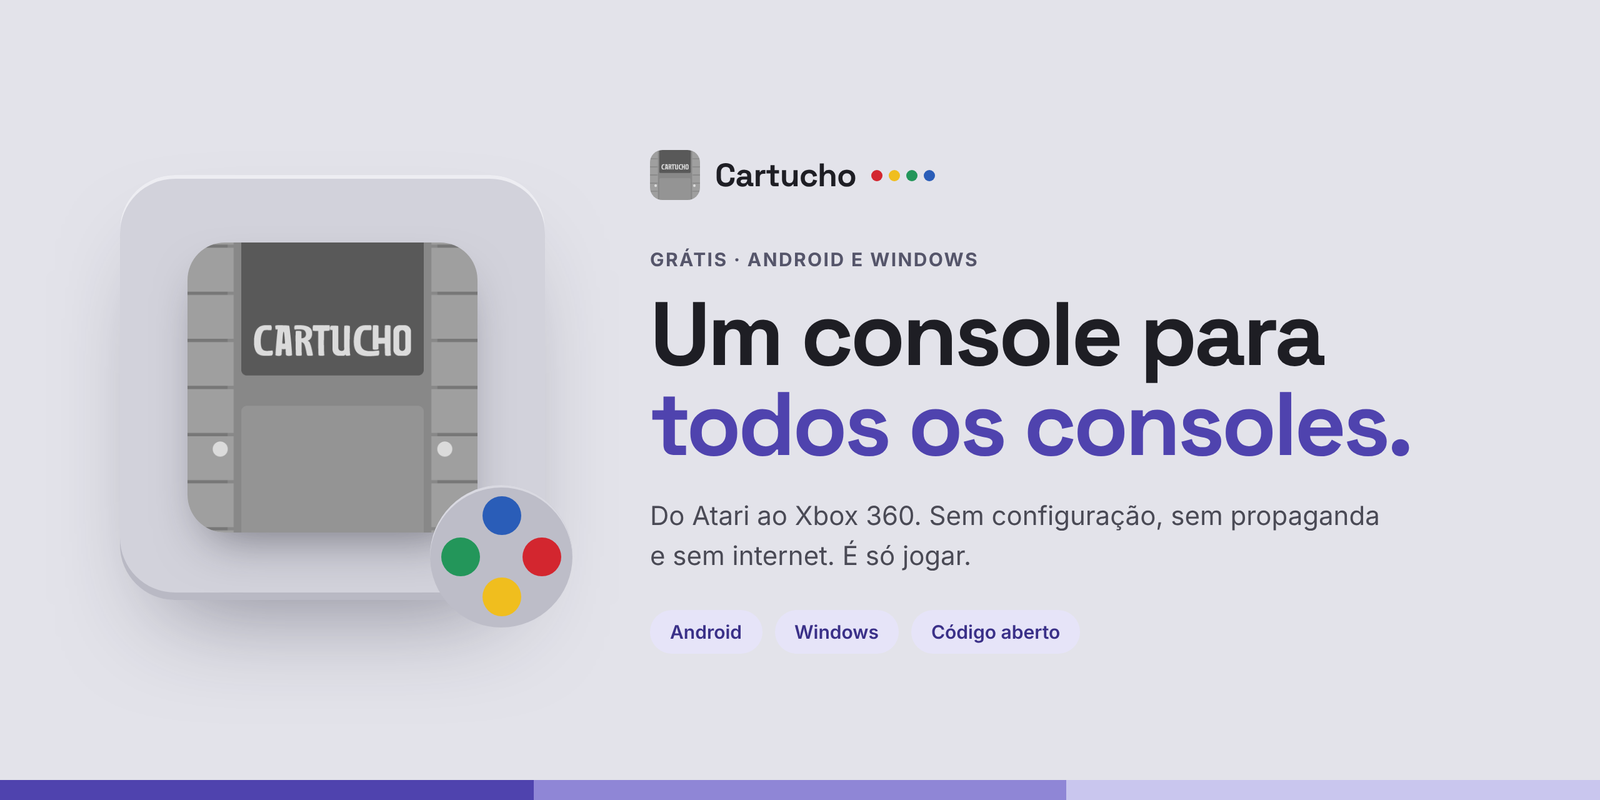
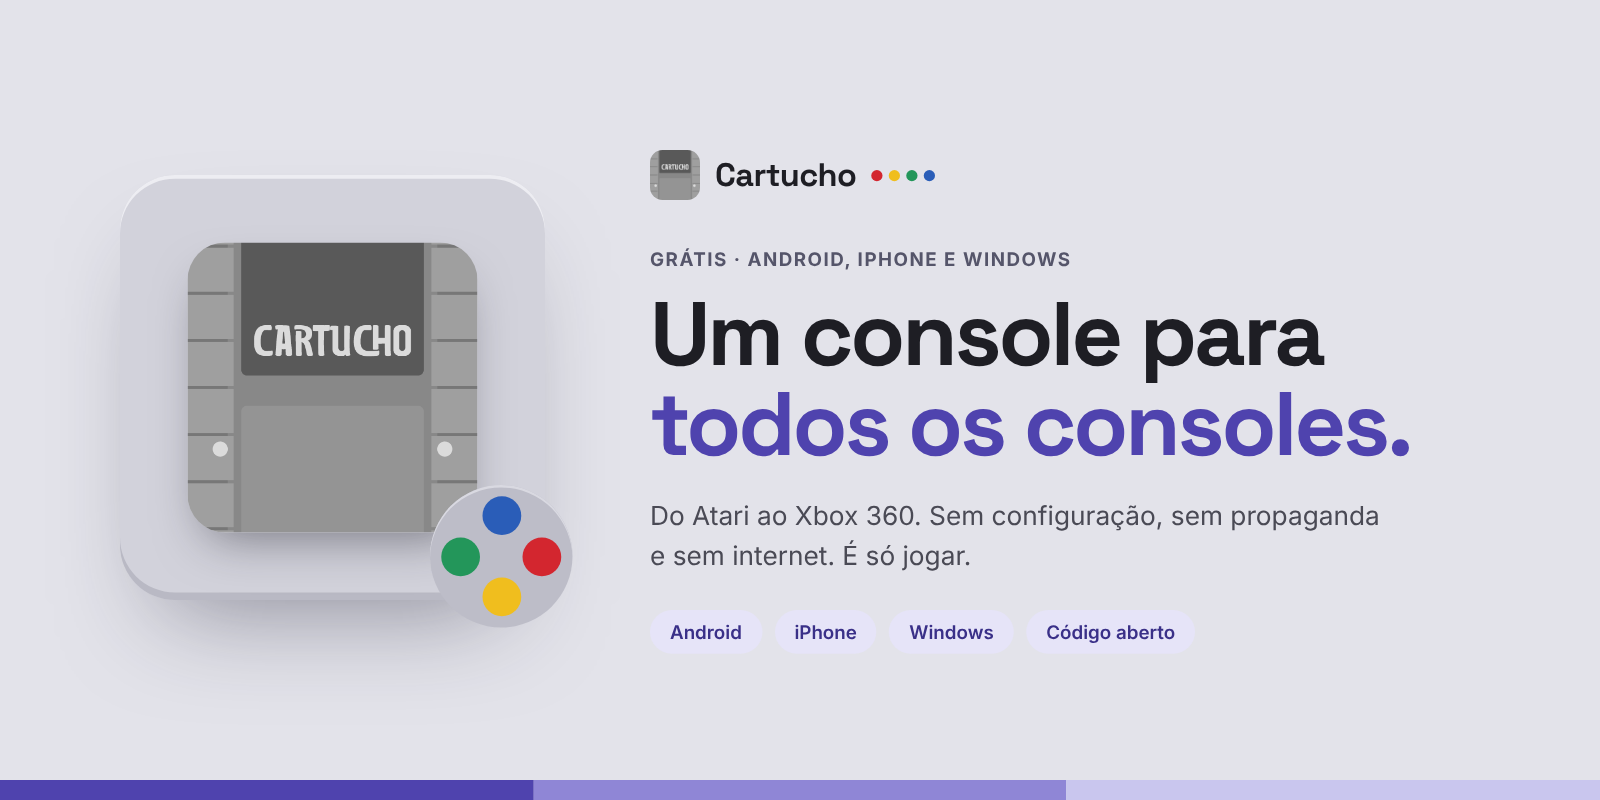
Site e README: iPhone, controles Bluetooth e card com capa [skip ci]
Claude-Session: https://claude.ai/code/session_012du9hYoGdjek75wGg9n29t

Changed region(s): [[0.5, 0.7812, 0.75, 0.8125], [0.5312, 0.3125, 0.6875, 0.3438], [0.4375, 0.7812, 0.4688, 0.8125]]

diff --git a/site/index.html b/site/index.html
@@ -6,7 +6,7 @@
 <meta name="copyright" content="© 2026 André Felipe">
 <meta name="viewport" content="width=device-width, initial-scale=1">
 <title>Cartucho — Emulador gratuito, do Atari ao Xbox 360</title>
-<meta name="description" content="Cartucho é um emulador gratuito para Android e Windows. Reconhece seus jogos, busca as capas sozinho e funciona com qualquer controle.">
+<meta name="description" content="Cartucho é um emulador gratuito para Android, iPhone e Windows. Reconhece seus jogos, busca as capas sozinho e funciona com qualquer controle.">
 <meta name="theme-color" content="#E3E3EA">
 <link rel="icon" type="image/png" href="favicon.png">
 <link rel="apple-touch-icon" href="favicon.png">
@@ -37,7 +37,7 @@
     <div class="hero-text">
       <div class="kicker">
         <span class="dots" aria-hidden="true"><i style="background:var(--red)"></i><i style="background:var(--yellow)"></i><i style="background:var(--green)"></i><i style="background:var(--blue)"></i></span>
-        <span>Grátis · Android e Windows</span>
+        <span>Grátis · Android, iPhone e Windows</span>
       </div>
       <h1>Do Atari ao Xbox 360. Num só cartucho.</h1>
       <p class="lead">Um emulador simples que reconhece seus jogos, busca as capas sozinho e funciona com qualquer controle. É só escolher o jogo e apertar start.</p>
@@ -49,6 +49,10 @@
         <a class="btn btn-soft" data-asset="win-setup" href="https://github.com/andrefeeelipe/Cartucho/releases/download/v1.0.80/Cartucho-1.0.80-windows-instalador.exe">
           <svg aria-hidden="true" width="18" height="18" viewBox="0 0 24 24" fill="none" stroke="currentColor" stroke-width="2" stroke-linecap="round" stroke-linejoin="round"><rect x="3" y="4" width="18" height="12" rx="2"/><path d="M8 20h8"/><path d="M12 16v4"/></svg>
           Baixar para Windows
+        </a>
+        <a class="btn btn-soft" data-asset="ios-ipa" href="https://github.com/andrefeeelipe/Cartucho/releases/latest">
+          <svg aria-hidden="true" width="18" height="18" viewBox="0 0 24 24" fill="none" stroke="currentColor" stroke-width="2" stroke-linecap="round" stroke-linejoin="round"><rect x="6" y="2" width="12" height="20" rx="3"/><path d="M10 5h4"/></svg>
+          Baixar para iPhone
         </a>
       </div>
     </div>
@@ -67,29 +71,29 @@
     <div class="wrap section">
       <div class="section-head">
         <h2>Sete gerações de videogame.</h2>
-        <p>No celular, do Atari ao PlayStation 2. No PC, vai até o Wii U e o Xbox 360, com o Cartucho avisando antes se o seu computador roda o jogo liso.</p>
+        <p>No Android, do Atari ao PlayStation 2. No iPhone, até o PlayStation, o PSP e o Nintendo DS. No PC, vai até o Wii U e o Xbox 360, com o Cartucho avisando antes se o seu computador roda o jogo liso.</p>
       </div>
 
       <div class="grid">
         <article class="gen">
           <div class="gen-top"><span>2ª geração</span><i aria-hidden="true" style="background:var(--red)"></i></div>
           <p>Atari 2600, Atari 7800</p>
-          <div class="tags"><span>Android</span><span>Windows</span></div>
+          <div class="tags"><span>Android</span><span>iPhone</span><span>Windows</span></div>
         </article>
         <article class="gen">
           <div class="gen-top"><span>3ª geração</span><i aria-hidden="true" style="background:var(--yellow)"></i></div>
           <p>NES, Master System</p>
-          <div class="tags"><span>Android</span><span>Windows</span></div>
+          <div class="tags"><span>Android</span><span>iPhone</span><span>Windows</span></div>
         </article>
         <article class="gen">
           <div class="gen-top"><span>4ª geração</span><i aria-hidden="true" style="background:var(--green)"></i></div>
           <p>Super Nintendo, Mega Drive</p>
-          <div class="tags"><span>Android</span><span>Windows</span></div>
+          <div class="tags"><span>Android</span><span>iPhone</span><span>Windows</span></div>
         </article>
         <article class="gen">
           <div class="gen-top"><span>5ª geração</span><i aria-hidden="true" style="background:var(--blue)"></i></div>
           <p>PlayStation, Nintendo 64, Saturn</p>
-          <div class="tags"><span>Android</span><span>Windows</span></div>
+          <div class="tags"><span>Android</span><span>iPhone</span><span>Windows</span></div>
         </article>
         <article class="gen">
           <div class="gen-top"><span>6ª geração</span><i aria-hidden="true" style="background:var(--red)"></i></div>
@@ -137,7 +141,7 @@
       <div class="feature">
         <span class="ico" style="background:var(--purple)"><svg aria-hidden="true" width="22" height="22" viewBox="0 0 24 24" fill="none" stroke="currentColor" stroke-width="2" stroke-linecap="round" stroke-linejoin="round"><rect x="2" y="7" width="20" height="10" rx="5"/><path d="M7 10v4"/><path d="M5 12h4"/><circle cx="16" cy="11" r="0.8" fill="currentColor"/><circle cx="18" cy="13" r="0.8" fill="currentColor"/></svg></span>
         <h3>Qualquer controle</h3>
-        <p>Conectou, funcionou. Bluetooth, USB ou teclado no PC.</p>
+        <p>Conectou, funcionou: PlayStation, Xbox, 8BitDo e genéricos, por Bluetooth ou USB. Teclado no PC e controle na tela do celular.</p>
       </div>
       <div class="feature">
         <span class="ico" style="background:var(--red)"><svg aria-hidden="true" width="22" height="22" viewBox="0 0 24 24" fill="none" stroke="currentColor" stroke-width="2" stroke-linecap="round" stroke-linejoin="round"><rect x="4" y="3" width="16" height="18" rx="2"/><path d="m4 15 4-4 4 4 3-3 5 5"/><circle cx="15" cy="8" r="1.5"/></svg></span>
@@ -210,6 +214,18 @@
             Baixar para Windows
           </a>
         </div>
+        <div class="dl-card dl-ios">
+          <div class="dl-title">
+            <svg aria-hidden="true" width="28" height="28" viewBox="0 0 24 24" fill="none" stroke="#C9C6EE" stroke-width="2" stroke-linecap="round" stroke-linejoin="round"><rect x="6" y="2" width="12" height="20" rx="3"/><path d="M10 5h4"/></svg>
+            <h3>iPhone e iPad</h3>
+          </div>
+          <p>Do Atari ao PlayStation, PSP e Nintendo DS, com controle na tela. Instale grátis pelo AltStore ou SideStore.</p>
+          <p class="meta" data-meta="ios" aria-live="polite">iOS 14 ou mais novo · <a href="#instalar-iphone">como instalar</a></p>
+          <a class="btn btn-soft" data-asset="ios-ipa" href="https://github.com/andrefeeelipe/Cartucho/releases/latest">
+            <svg aria-hidden="true" width="18" height="18" viewBox="0 0 24 24" fill="none" stroke="currentColor" stroke-width="2" stroke-linecap="round" stroke-linejoin="round"><path d="M12 3v12"/><path d="m7 10 5 5 5-5"/><path d="M5 21h14"/></svg>
+            Baixar para iPhone (.ipa)
+          </a>
+        </div>
       </div>
 
       <details class="more">
@@ -247,10 +263,16 @@
               <span class="f-size" data-size="win-zip">—</span>
               <a class="f-get" data-asset="win-zip" href="https://github.com/andrefeeelipe/Cartucho/releases/download/v1.0.80/Cartucho-1.0.80-windows-x64.zip" aria-label="Baixar Windows sem instalar">Baixar</a>
             </li>
+            <li data-row="ios-ipa">
+              <div class="f-name"><strong>iPhone e iPad (.ipa)</strong><span>Instale pelo AltStore ou SideStore. iOS 14 ou mais novo.</span></div>
+              <span class="f-size" data-size="ios-ipa">—</span>
+              <a class="f-get" data-asset="ios-ipa" href="https://github.com/andrefeeelipe/Cartucho/releases/latest" aria-label="Baixar para iPhone">Baixar</a>
+            </li>
           </ul>
           <p class="integrity">Conferir integridade (SHA-256):
             <a class="inline" data-asset="sha-android" href="https://github.com/andrefeeelipe/Cartucho/releases/download/v1.0.80/SHA256SUMS.txt">Android</a> ·
-            <a class="inline" data-asset="sha-windows" href="https://github.com/andrefeeelipe/Cartucho/releases/download/v1.0.80/SHA256SUMS-windows.txt">Windows</a>
+            <a class="inline" data-asset="sha-windows" href="https://github.com/andrefeeelipe/Cartucho/releases/download/v1.0.80/SHA256SUMS-windows.txt">Windows</a> ·
+            <a class="inline" data-asset="sha-ios" href="https://github.com/andrefeeelipe/Cartucho/releases/latest">iPhone</a>
           </p>
         </div>
       </details>
@@ -293,6 +315,26 @@
             <li>Toque em Instalar e depois em Abrir.</li>
           </ol>
           <p>Quase todo celular atual usa o arm64-v8a, que é o do botão principal. Se não tiver certeza, baixe o universal: é maior, mas funciona em qualquer aparelho.</p>
+        </div>
+      </details>
+      <details id="instalar-iphone">
+        <summary>Como instalar no iPhone?</summary>
+        <div class="answer">
+          <p>A Apple só deixa instalar apps de fora da App Store por um instalador como o AltStore ou o SideStore. Os dois são gratuitos e usam o seu próprio ID Apple.</p>
+          <ol>
+            <li>Instale o AltStore (altstore.io) ou o SideStore (sidestore.io) seguindo o passo a passo do site deles. O AltStore precisa de um computador na primeira vez.</li>
+            <li>No iPhone, toque em Baixar para iPhone (.ipa), neste site.</li>
+            <li>Abra o AltStore ou SideStore, vá em My Apps, toque em + e escolha o arquivo do Cartucho.</li>
+            <li>Com ID Apple gratuito, o app precisa ser renovado a cada 7 dias: abra o AltStore ou SideStore e toque em Refresh. Seus jogos e saves continuam lá.</li>
+          </ol>
+          <p>Para colocar seus jogos: app Arquivos › No meu iPhone › Cartucho.</p>
+        </div>
+      </details>
+      <details>
+        <summary>Funciona com o meu controle?</summary>
+        <div class="answer">
+          <p>Controles de PlayStation 4 e 5, Xbox One S e mais novos, Switch Pro e 8BitDo funcionam por Bluetooth no Android, no iPhone e no Windows. Controles genéricos funcionam no Android e no Windows; no iPhone, só os que têm modo iOS ou selo MFi (a Apple não aceita os outros).</p>
+          <p>O controle de Xbox 360 não tem Bluetooth: com fio, funciona no Windows e no Android (com adaptador USB-C); o sem fio precisa do receptor da Microsoft no PC. Em qualquer controle, Select + Start juntos abrem o menu do jogo.</p>
         </div>
       </details>
       <details>

diff --git a/site/site.js b/site/site.js
@@ -19,7 +19,9 @@
     { id: 'win-setup', end: 'windows-instalador.exe' },
     { id: 'win-zip', end: 'windows-x64.zip' },
     { id: 'sha-android', end: 'SHA256SUMS.txt' },
-    { id: 'sha-windows', end: 'SHA256SUMS-windows.txt' }
+    { id: 'sha-windows', end: 'SHA256SUMS-windows.txt' },
+    { id: 'ios-ipa', end: '-iphone.ipa' },
+    { id: 'sha-ios', end: 'SHA256SUMS-iphone.txt' }
   ];
 
   function $all(sel) { return Array.prototype.slice.call(document.querySelectorAll(sel)); }
@@ -28,11 +30,17 @@
   var ua = navigator.userAgent || '';
   var isAndroid = /Android/i.test(ua);
   var isWindows = !isAndroid && /Windows/i.test(ua);
+  // iPad novo se apresenta como Mac: tela de toque denuncia.
+  var isIOS = /iPhone|iPad|iPod/i.test(ua) || (/Macintosh/i.test(ua) && navigator.maxTouchPoints > 1);
   var grid = document.getElementById('dl-grid');
   if (grid) {
     if (isAndroid) {
       var a = grid.querySelector('.dl-android');
       if (a) a.classList.add('is-yours');
+    } else if (isIOS) {
+      var i = grid.querySelector('.dl-ios');
+      if (i) i.classList.add('is-yours');
+      grid.classList.add('ios-first');
     } else if (isWindows) {
       var w = grid.querySelector('.dl-win');
       if (w) w.classList.add('is-yours');
@@ -133,6 +141,13 @@
       var fw = files['win-setup'];
       metaWin.textContent = ['Versão ' + version, fw ? formatSize(fw.size) : '', 'Windows 10 ou 11, 64 bits']
         .filter(Boolean).join(' · ');
+    }
+
+    var metaIos = document.querySelector('[data-meta="ios"]');
+    if (metaIos && files['ios-ipa']) {
+      var link = metaIos.querySelector('a');
+      metaIos.textContent = ['Versão ' + version, formatSize(files['ios-ipa'].size), 'iOS 14+'].filter(Boolean).join(' · ') + ' · ';
+      if (link) metaIos.appendChild(link);
     }
 
     var line = document.querySelector('[data-release-line]');

diff --git a/site/site.css b/site/site.css
@@ -183,6 +183,7 @@ h2 {
 .dl-card { background: var(--dark-2); border-radius: 26px; padding: 36px; display: flex; flex-direction: column; gap: 18px; border: 2px solid transparent; }
 .dl-card.is-yours { border-color: var(--lav); }
 .dl-grid.windows-first .dl-win { order: -1; }
+.dl-grid.ios-first .dl-ios { order: -1; }
 .dl-card .dl-title { display: flex; align-items: center; gap: 12px; }
 .dl-card h3 { margin: 0; font-size: 26px; font-weight: 700; }
 .dl-card p { margin: 0; font-size: 15px; line-height: 1.55; color: var(--dark-text); }

diff --git a/README.md b/README.md
@@ -1,12 +1,12 @@
 # Cartucho
 
-<img src="docs/banner.png" alt="Cartucho: um console para todos os consoles. Do Atari ao Xbox 360, grátis para Android e Windows.">
+<img src="docs/banner.png" alt="Cartucho: um console para todos os consoles. Do Atari ao Xbox 360, grátis para Android, iPhone e Windows.">
 
 ### Baixe aqui: **[cartucho-emulador.netlify.app](https://cartucho-emulador.netlify.app)**
 
 **O Cartucho transforma o seu celular ou o seu computador num videogame antigo.**
 
-Sabe aqueles videogames de antigamente, como o Super Nintendo, o Mega Drive e o PlayStation? O Cartucho "finge" ser eles. Assim você joga os seus jogos no celular (Android) ou no computador (Windows), onde estiver.
+Sabe aqueles videogames de antigamente, como o Super Nintendo, o Mega Drive e o PlayStation? O Cartucho "finge" ser eles. Assim você joga os seus jogos no celular (Android ou iPhone) ou no computador (Windows), onde estiver.
 
 - **É de graça.** Para sempre.
 - **Não tem propaganda.**
@@ -36,6 +36,17 @@ Tem mais de um arquivo de Android. Qual é o seu?
 | `armeabi-v7a` | Celulares bem velhinhos (os videogames mais pesados não rodam) |
 | `x86_64` | Chromebooks e "celulares de mentira" no computador |
 | `universal` | Funciona em qualquer um, mas é bem maior |
+
+### No iPhone e no iPad (iOS 14 ou mais novo)
+
+A Apple só deixa instalar apps de fora da App Store por um "instalador" como o **AltStore** ou o **SideStore**. Os dois são grátis e usam o seu próprio ID Apple.
+
+1. Instale o **[AltStore](https://altstore.io)** ou o **[SideStore](https://sidestore.io)** seguindo o passo a passo do site deles (o AltStore precisa de um computador na primeira vez).
+2. No iPhone, abra o **[site do Cartucho](https://cartucho-emulador.netlify.app)** e toque em **Baixar para iPhone (.ipa)**.
+3. Abra o AltStore ou SideStore, vá em **My Apps**, toque em **+** e escolha o arquivo do Cartucho.
+4. Com ID Apple grátis, o app precisa ser renovado a cada 7 dias: abra o AltStore ou SideStore e toque em **Refresh**. Seus jogos e saves continuam lá.
+
+Para colocar os seus jogos: app **Arquivos → No meu iPhone → Cartucho**. No iPhone o Cartucho roda do Atari ao **PlayStation, PSP, Nintendo 64 e Nintendo DS**, com controle na tela. Os mais pesados (PS2, GameCube, 3DS, Dreamcast, Saturn) ficam de fora: o iPhone não deixa os emuladores usarem a técnica que dá velocidade a eles.
 
 ### No computador (Windows 10 ou 11)
 
@@ -138,13 +149,24 @@ Na página do jogo (ou no menu de pausa), toque em **Compartilhar**. O Cartucho 
 |---|---|---|
 | <img src="docs/card-story.png" width="200" alt="Card no formato story"> | <img src="docs/card-feed.png" width="260" alt="Card no formato feed"> | <img src="docs/card-link.png" width="320" alt="Card no formato link"> |
 
-Toque em **Compartilhar** para mandar no WhatsApp ou no Instagram, ou em **Salvar imagem**. No computador, clique com o botão direito numa capa e escolha *Compartilhar card*: a imagem fica salva e já copiada, é só colar.
+O card sempre leva a **capa do jogo**. Toque em **Compartilhar** para mandar no WhatsApp ou no Instagram, ou em **Salvar imagem**. No computador, clique com o botão direito numa capa e escolha *Compartilhar card*: a imagem fica salva e já copiada, é só colar. No iPhone, segure a capa e escolha *Compartilhar card*.
 
 ### Guardar o progresso no Google Drive (se quiser)
 Em *Ajustes → Nuvem*, escolha sua conta do Google. Seus saves vão para uma pasta chamada *Cartucho* no seu Drive. Assim você pode começar no celular e continuar no computador. O app só mexe nessa pasta.
 
 ### Controles
-Use os botões na tela (dá para arrastar e mudar o tamanho) ou um controle de verdade, com fio ou Bluetooth (Xbox, PlayStation ou outros). Dá para trocar a função de cada botão.
+Use os botões na tela (no Android dá para arrastar e mudar o tamanho) ou um controle de verdade, com fio ou Bluetooth. Dá para trocar a função de cada botão no Android. **Select + Start juntos** abrem o menu do jogo em qualquer controle.
+
+| Controle | Android | iPhone | Windows |
+|---|---|---|---|
+| PlayStation 4 e 5 (Bluetooth) | Sim | Sim | Sim |
+| Xbox One S, Series (Bluetooth) | Sim | Sim | Sim |
+| Xbox One de 2013 (sem Bluetooth) | Com cabo USB | Não | Com cabo USB |
+| Xbox 360 (não tem Bluetooth) | Com fio, por adaptador USB-C | Não | Com fio, ou sem fio com o receptor da Microsoft |
+| 8BitDo, GameSir, Switch Pro | Sim | Sim | Sim |
+| Genéricos Bluetooth | Sim | Só com modo iOS ou selo MFi | Sim |
+
+O Windows e o iPhone trazem a lista da comunidade com os botões de milhares de controles. Controle que não está na lista também funciona, com o layout mais comum dos genéricos.
 
 ---
 
@@ -173,6 +195,8 @@ Com a BIOS do seu PS2 (em *Ajustes → BIOS → PlayStation 2*), o Cartucho usa 
 
 **Jogos de computador (Doom, Quake e outros):** coloque a pasta inteira do jogo dentro de um `.zip` e adicione o `.zip` no Cartucho.
 
+**No iPhone** entram os videogames até o PlayStation e o PSP (incluindo Nintendo 64 e Nintendo DS), além dos computadores antigos e dos jogos clássicos de computador.
+
 **No computador, o Cartucho avisa antes de abrir o jogo** se ele vai rodar liso, engasgar, travar ou nem abrir. Depois que você joga, o aviso fica ainda mais certo.
 
 ---
@@ -184,6 +208,9 @@ Para jogar, não. A internet só é usada para baixar capas, baixar jogos da Loj
 
 **Por que não tem Nintendo Switch?**
 Em 2026, a Nintendo mandou tirar do ar vários programas que rodavam jogos de Switch. Se o Cartucho tivesse Switch, ele poderia ser tirado do ar também, e todo mundo perderia o resto. Por isso o Switch fica de fora.
+
+**Por que o iPhone precisa do AltStore ou SideStore?**
+Para entrar na App Store, a Apple cobra uma taxa por ano de quem publica. O Cartucho é 100% grátis, então ele é instalado pelo AltStore ou SideStore, que são grátis e usam o seu próprio ID Apple.
 
 **Os jogos estão lentos no meu celular. E agora?**
 Vá em *Ajustes → Sistemas neste aparelho*. O app conta, com sinceridade, o que roda bem no seu celular. Os videogames mais pesados (PS2, GameCube, 3DS) precisam de celulares fortes.
@@ -197,6 +224,7 @@ Espere alguns segundos com o app aberto: ele reconhece os jogos aos poucos. Se f
 
 - **PlayStation 2** pesa bastante no celular. Nem todo jogo roda bem.
 - **Nintendo 3DS** precisa de um celular forte, e o jogo precisa estar "aberto" (descriptografado), nos formatos `.3ds`, `.cci`, `.cxi` ou `.3dsx`.
+- **iPhone (primeira versão):** sem saves no Google Drive, sem salas online e sem conquistas por enquanto. PSP e Nintendo 64 podem engasgar, porque o iPhone não deixa os emuladores usarem JIT.
 - Arquivos `.rar` do tipo RAR5 ainda não abrem.
 - Jogos feitos de vários arquivos (`.cue`/`.bin`, `.gdi`, `.m3u`) precisam ser adicionados pelo botão **Adicionar pasta**.
 - O reconhecimento de nome ainda não lê `.cue`, `.chd` e `.cso`, e por enquanto só funciona no celular.
@@ -245,7 +273,7 @@ O visual lembra os videogames cinza dos anos 90: plástico claro, listras roxas 
 Toda vez que alguém manda uma mudança para a branch `main`, o **GitHub Actions** (um robô grátis do GitHub) faz tudo sozinho:
 
 1. **Junta as peças:** baixa os emuladores, a lista que reconhece os jogos e o catálogo da Loja.
-2. **Monta o app:** um para Android e outro para Windows.
+2. **Monta o app:** um para Android, um para Windows e um para iPhone (o `.ipa`, num Mac do GitHub).
 3. **Testa de verdade:**
    - no Android, liga um celular de mentira e testa a sala de jogar junto, a Loja e os downloads;
    - no Windows, abre jogos grátis de vários videogames para ver se rodam.
@@ -272,7 +300,9 @@ Guarde o arquivo `cartucho.jks` (a assinatura) num lugar seguro. Se perder, as p
 ```
 app/src/main/cpp/          o "motor": roda os emuladores, a imagem, o som e os troféus (C++)
 app/src/main/java/...      as telas do app de Android (Kotlin + Jetpack Compose)
-desktop/                   a versão para Windows (C++, SDL2, OpenGL, Dear ImGui)
+desktop/                   as versões para Windows e iPhone (C++, SDL2, OpenGL / OpenGL ES, Dear ImGui)
+desktop/src/touch.h        no iPhone: toque na interface e o controle na tela
+desktop/ios/Info.plist     no iPhone: nome, ícone, pastas no app Arquivos
 scripts/fetch-deps.sh      baixa os emuladores e o resto que o app precisa
 scripts/build-loja.py      monta o catálogo da Loja
 scripts/build-ids.py       monta as listas que reconhecem os jogos
